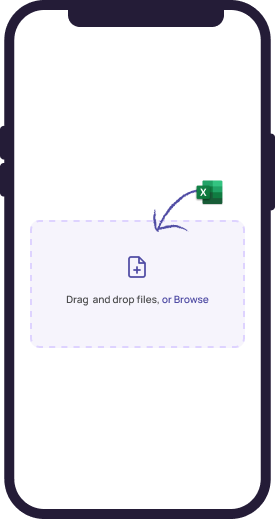
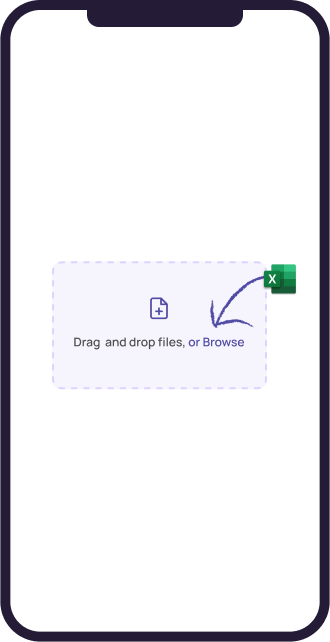
updated frame section titles

diff --git a/pages/index.tsx b/pages/index.tsx
@@ -12,6 +12,7 @@ import frame1 from "../images/frame (1).png";
 import frame2 from "../images/frame (2).png";
 import frame3 from "../images/frame (3).png";
 import frame4 from "../images/frame (4).png";
+import Excel from "../images/Excel.png";
 const Home: NextPage = () => {
   return (
     // <div className="flex min-h-screen flex-col items-center justify-center py-2">
@@ -98,7 +99,7 @@ const Home: NextPage = () => {
         {/************ decor images ************/}
       </section>
 
-      <section className="py-10  mt-32">
+      <section className="py-8  mt-18">
         {/* frame 1 */}
         <div className="w-full  flex flex-wrap my-20 py-10">
           <div className="w-full md:w-1/2 p-3  flex items-center flex-col justify-center">
@@ -129,8 +130,7 @@ const Home: NextPage = () => {
         <div className="w-full  flex lg:flex-row-reverse flex-wrap my-20 py-10">
           <div className="w-full md:w-1/2 p-3  flex items-center flex-col justify-center">
             <h2 className="text-3xl font-bold text-purple-400">
-              One short link,
-              <span className="text-orange-500">Infinite possibilities.</span>
+              Multiple preview layouts
             </h2>
             <p className="mt-5 font-light text-center lg:mb-0 mb-10">
               Reference site about Lorem Ipsum, giving information on its
@@ -153,9 +153,18 @@ const Home: NextPage = () => {
         {/* frame 3 */}
         <div className="w-full  flex flex-wrap my-20 py-10">
           <div className="w-full md:w-1/2 p-3  flex items-center flex-col justify-center">
+            <div className="w-12 h-12 mb-5 text-center  rounded-full relative ">
+              <Image
+                src={Excel}
+                alt="link"
+                className="  h-full w-full "
+                layout="fill"
+                priority
+                loading="eager"
+              />
+            </div>
             <h2 className="text-3xl font-bold text-purple-400">
-              One short link,
-              <span className="text-orange-500">Infinite possibilities.</span>
+              Import CSV support
             </h2>
             <p className="mt-5 font-light text-center lg:mb-0 mb-10">
               Reference site about Lorem Ipsum, giving information on its
@@ -180,8 +189,7 @@ const Home: NextPage = () => {
         <div className="w-full lg:flex-row-reverse  flex flex-wrap my-20 py-10">
           <div className="w-full md:w-1/2 p-3  flex items-center flex-col justify-center">
             <h2 className="text-3xl font-bold text-purple-400">
-              One short link,
-              <span className="text-orange-500">Infinite possibilities.</span>
+              Simple and Short URL
             </h2>
             <p className="mt-5 font-light text-center lg:mb-0 mb-10">
               Reference site about Lorem Ipsum, giving information on its
